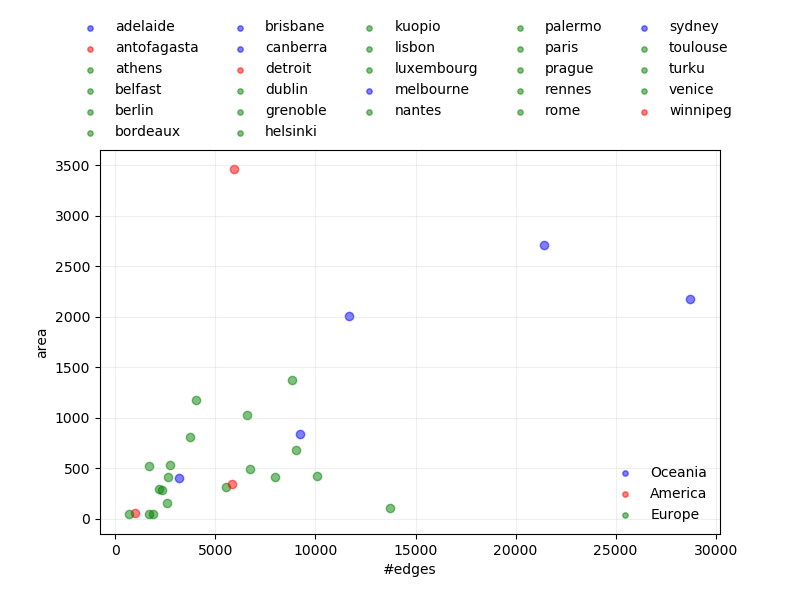
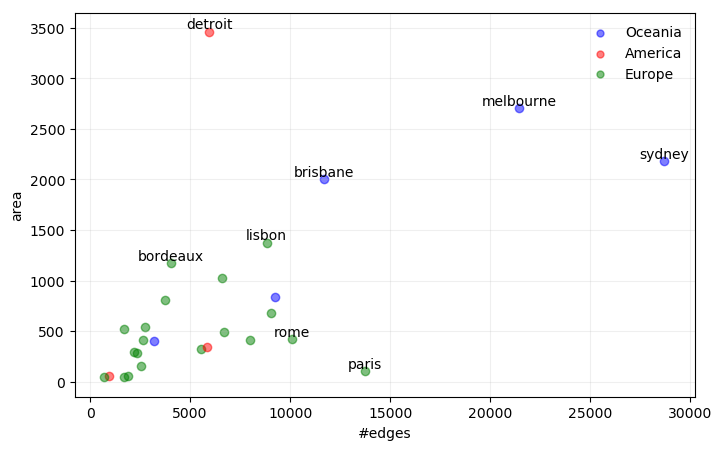
fix basic measures plots

diff --git a/generic_plot_functions.py b/generic_plot_functions.py
@@ -45,7 +45,8 @@ def plot_measures_with_subplots(nrows, ncols, x_values, y_values, colors, labels
     fig, axs = plt.subplots(nrows, ncols, sharex=True, figsize=(12, 9))
 
     for ax, color, y_values, label in zip(axs, colors, y_values, labels):
-        ax.plot(x_values, y_values, label=label, color=color, marker='o')
+        ax.plot(x_values, y_values, color=color, marker='o')
+        ax.set_ylabel(label)
 
     plt.xticks(rotation=70)
 
@@ -63,10 +64,11 @@ def plot_measures(df):
     x_values = df.columns.values
     y_values = df.values.tolist()
     colors = ['r', 'b', 'g', 'y', 'm']
-    labels = df.index.values
+    # labels = df.index.values
+    labels = ['N', 'E', 'density', 'diameter', '<c>']
 
     fig, axs = plot_measures_with_subplots(len(labels), 1, x_values, y_values, colors, labels)
-    fig.legend()
+    # fig.legend()
 
     return fig
 
@@ -88,26 +90,40 @@ def create_scatter(x_values, y_values, x_label, y_label, labels, colors, areas=N
 
     fig, ax = plt.subplots(figsize=(8, 6))
     dots = []
+    style = dict(size=10, color='gray')
 
     if areas is None:
         for x_value, y_value, color, label in zip(x_values, y_values, colors, labels):
             dots.append(ax.scatter(x_value, y_value, color=color, label=label, alpha=0.5))
+
+        max_x = max(x_values)
+        max_y = max(y_values)
+        for i, txt in enumerate(labels):
+            if x_values[i] > 1/3*max_x or y_values[i] > 1/3*max_y:
+                v_align = 'top' if labels[i] == 'antofagasta' or labels[i] == 'rennes' else 'bottom'
+                ax.annotate(txt, (x_values[i], y_values[i]), ha='center', verticalalignment=v_align)
+
     else:
         for x_value, y_value, color, label, area in zip(x_values, y_values, colors, labels, areas):
             dots.append(ax.scatter(x_value, y_value, color=color, label=label, s=area, alpha=0.5))
+
+        max_area = max(areas)
+        for i, txt in enumerate(labels):
+            if areas[i] > 1/2*max_area:
+                ax.annotate(txt, (x_values[i], y_values[i]), ha='center')
 
     ax.set_xlabel(x_label)
     ax.set_ylabel(y_label)
     ax.grid(alpha=0.2)
     plt.subplots_adjust(top=0.75)
-    legend = ax.legend(loc='lower left', bbox_to_anchor=(-0.05, 1.01), ncol=5,
-                       borderaxespad=0.1, frameon=False)
-    for handle in legend.legendHandles:
-        handle.set_sizes([15.0])
+    # legend = ax.legend(loc='lower left', bbox_to_anchor=(-0.05, 1.01), ncol=5,
+    #                    borderaxespad=0.1, frameon=False)
+    # for handle in legend.legendHandles:
+    #     handle.set_sizes([15.0])
 
-    leg = Legend(ax, dots[:3], ['Oceania', 'America', 'Europe'], loc='lower right', frameon=False)
+    leg = Legend(ax, dots[:3], ['Oceania', 'America', 'Europe'], loc='best', frameon=False)
     for handle in leg.legendHandles:
-        handle.set_sizes([15.0])
+        handle.set_sizes([25.0])
     ax.add_artist(leg)
 
     return fig

diff --git a/plot_basic_measures.py b/plot_basic_measures.py
@@ -44,7 +44,7 @@ if __name__ == '__main__':
         fig = pf.create_scatter(x_values=x_val, y_values=areas, x_label=x_label, y_label='area',
                                 labels=df.index.values, colors=colors_cities)
         fig_name = prefix_png+'basic_measures/continents_division/'+x_label+'_continents.png'
-        fig.savefig(fig_name)
+        fig.savefig(fig_name, bbox_inches='tight')
     plt.close('all')
 
     ''' Plot x: #nodes, y: #edges and size of scatter points proportional to area of the city'''
